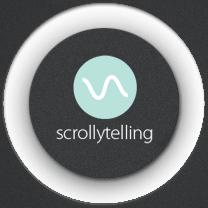
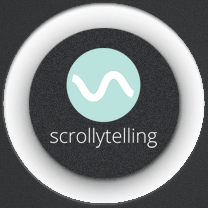
update assets following inge's redesign

Changed region(s): [[0.2308, 0.2308, 0.75, 0.7212]]

diff --git a/app/assets/stylesheets/pageflow/themes/scrollytelling/navigation.css.scss b/app/assets/stylesheets/pageflow/themes/scrollytelling/navigation.css.scss
@@ -42,7 +42,7 @@ $nav-bg-color-transparent: $basic-background-color-transparent;
   }
 
   .button, .navigation_mute, .navigation_share {
-    font-family: "FontAwesome";
+    font-family: Lora;
     font-size: 1em;
     color: rgba(0,0,0,0.75);
     text-shadow: -1px -1px 1px rgba(255, 255, 255, 0.6);
@@ -138,7 +138,7 @@ $nav-bg-color-transparent: $basic-background-color-transparent;
       text-align: center;
 
       p {
-        font-family: SourceSansPro;
+        font-family: Lora;
         font-size: 12px;
       }
     }
@@ -146,7 +146,7 @@ $nav-bg-color-transparent: $basic-background-color-transparent;
     .share_google, .share_facebook, .share_twitter {
       font-size: 1.5em;
       &:before {
-        font-family: "FontAwesome";
+        font-family: Lora;
         color: white;
         text-shadow: none;
       }

diff --git a/app/assets/stylesheets/pageflow/themes/scrollytelling/variables.css.scss b/app/assets/stylesheets/pageflow/themes/scrollytelling/variables.css.scss
@@ -1,20 +1,20 @@
 $theme-name: "scrollytelling";
 
-$main-color: #bae2dc;
-$main-color-dark: #64b7ab;
+$main-color: #bbe2dc;
+$main-color-dark: #8fcbbe;
 
-$focus-color: #cdcdcd;
+$focus-color: #dbe3e1;
 
-$anchor-color: #bae2dc;
+$anchor-color: #bbe2dc;
 
 $basic-background-color: #353535;
 $basic-background-color-transparent: rgba(53, 53, 53, 0.9);
 $header-background-color: gray;
 
 $addInfobox-text-color: #fff; /* for the description text inside the info box */
-$addInfobox-controls-text-color: #ccc; /* for control text like durations */
+$addInfobox-controls-text-color: #42897c; /* for control text like durations */
 $addInfobox-background-color: #191919;
 $addInfobox-border-color: #505050;
 
-$standard-font: SourceSansPro;
+$standard-font: Muli;
 $standard-font-size: 16px;

diff --git a/app/assets/stylesheets/pageflow/themes/scrollytelling/page.css.scss b/app/assets/stylesheets/pageflow/themes/scrollytelling/page.css.scss
@@ -8,15 +8,15 @@ $page-color: $main-color;
   font-family: $page-font;
 
   .content {
-    font-size: 5em;
+    font-size: 1em;
 
     @include phone {
-      font-size: 2em;
+      font-size: 0.7em;
     }
   }
 
   .shadow {
-    @include shadow(#bae2dc);
+    @include shadow(#000);
   }
 
   &.invert {

diff --git a/app/assets/stylesheets/pageflow/themes/scrollytelling/loading_spinner.css.scss b/app/assets/stylesheets/pageflow/themes/scrollytelling/loading_spinner.css.scss
@@ -1,5 +1,5 @@
 .loading_spinner {
-  background-color: #efefef;
+  background-color: #252526;
   background-image: image-url('pageflow/loading_spinner_glow.jpg');
   background-repeat: no-repeat;
   background-position: center center;
